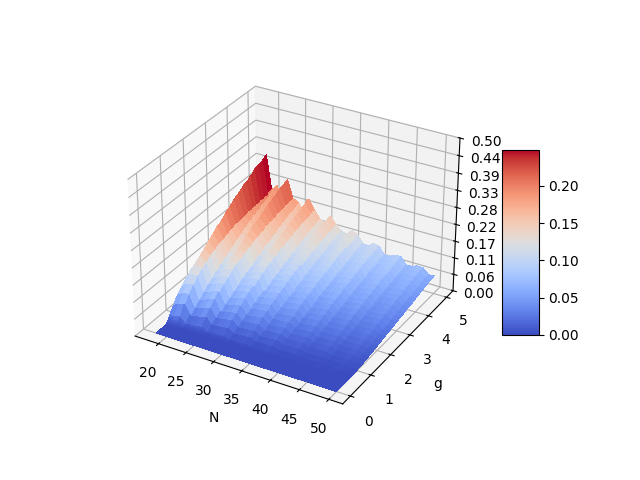
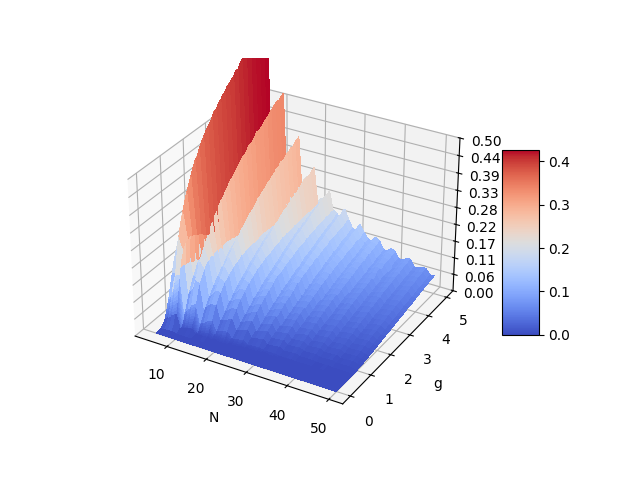
sync

diff --git a/plot_entropy.py b/plot_entropy.py
@@ -15,7 +15,7 @@ green = (0/255, 158/255, 115/255)
 orange = (230/255, 159/255, 0/255)
 
 # Nlist = [5,10,50,100,150]
-Nlist = [i for i in range(20,31)]
+Nlist = [i for i in range(4,51) if i%2==0][0::2]
 nN = len(Nlist)
 glist = np.round(np.append(np.linspace(0,0.4,5), np.append(np.linspace(0.41,0.59,19),np.linspace(0.6,5,45))), decimals=3)
 Ng = len(glist)
@@ -31,8 +31,9 @@ for n in Nlist:
     plt.plot(glist,NMswap, label='N=%i'%n)
     plt.xlabel("g")
     plt.ylabel("Ent. Entropy")
+    plt.title("Even # of sites")
     plt.legend()
-plt.savefig('entropy_vs_g.png')
+plt.savefig('entropy_vs_g(evenN).png')
 plt.close()
 
 Nlist = [i for i in range(4,51)]
@@ -61,7 +62,7 @@ plt.close()
 fig, ax = plt.subplots(subplot_kw={"projection": "3d"})
 
 
-Nlist = np.array([i for i in range(18,51,1)])
+Nlist = np.array([i for i in range(5,51,1)])
 nN = len(Nlist)
 glist = np.round(np.append(np.linspace(0,0.4,5), np.append(np.linspace(0.41,0.59,19),np.linspace(0.6,5,45))), decimals=3)
 Ng = len(glist)